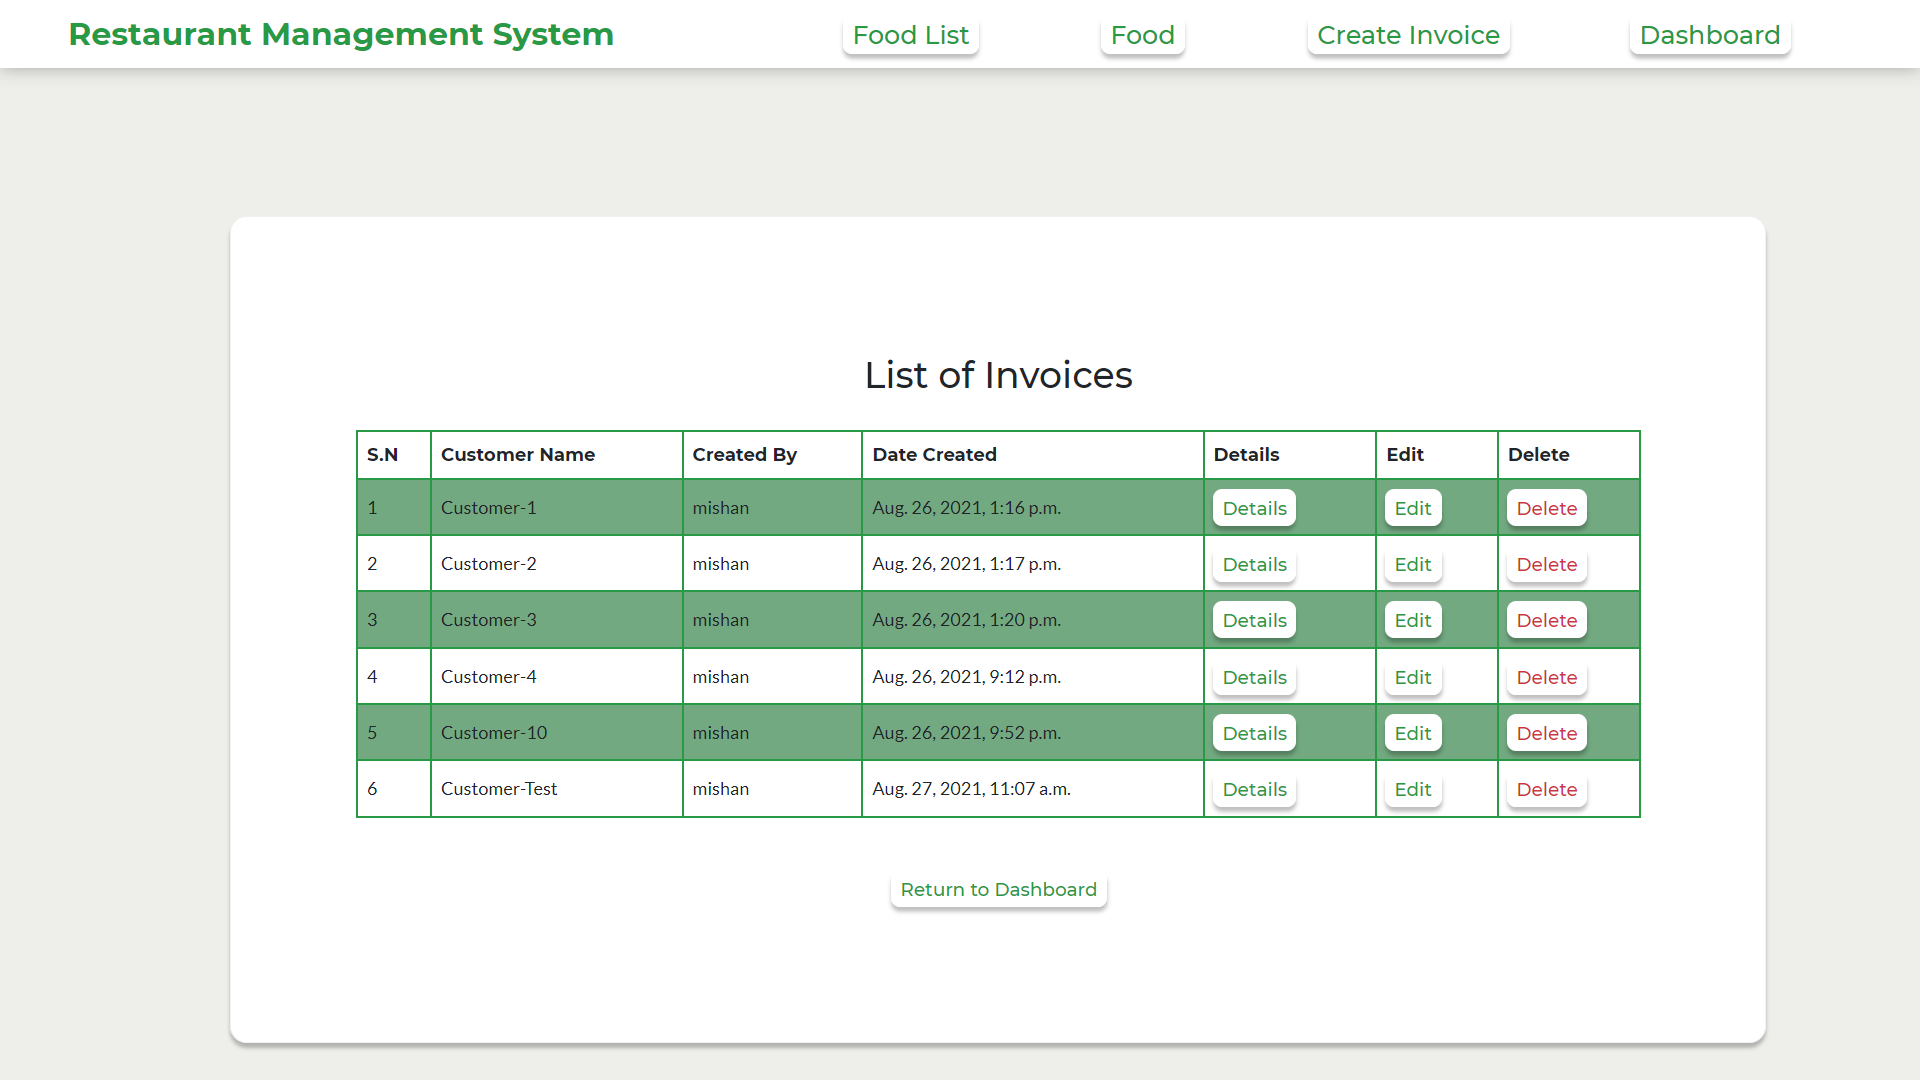
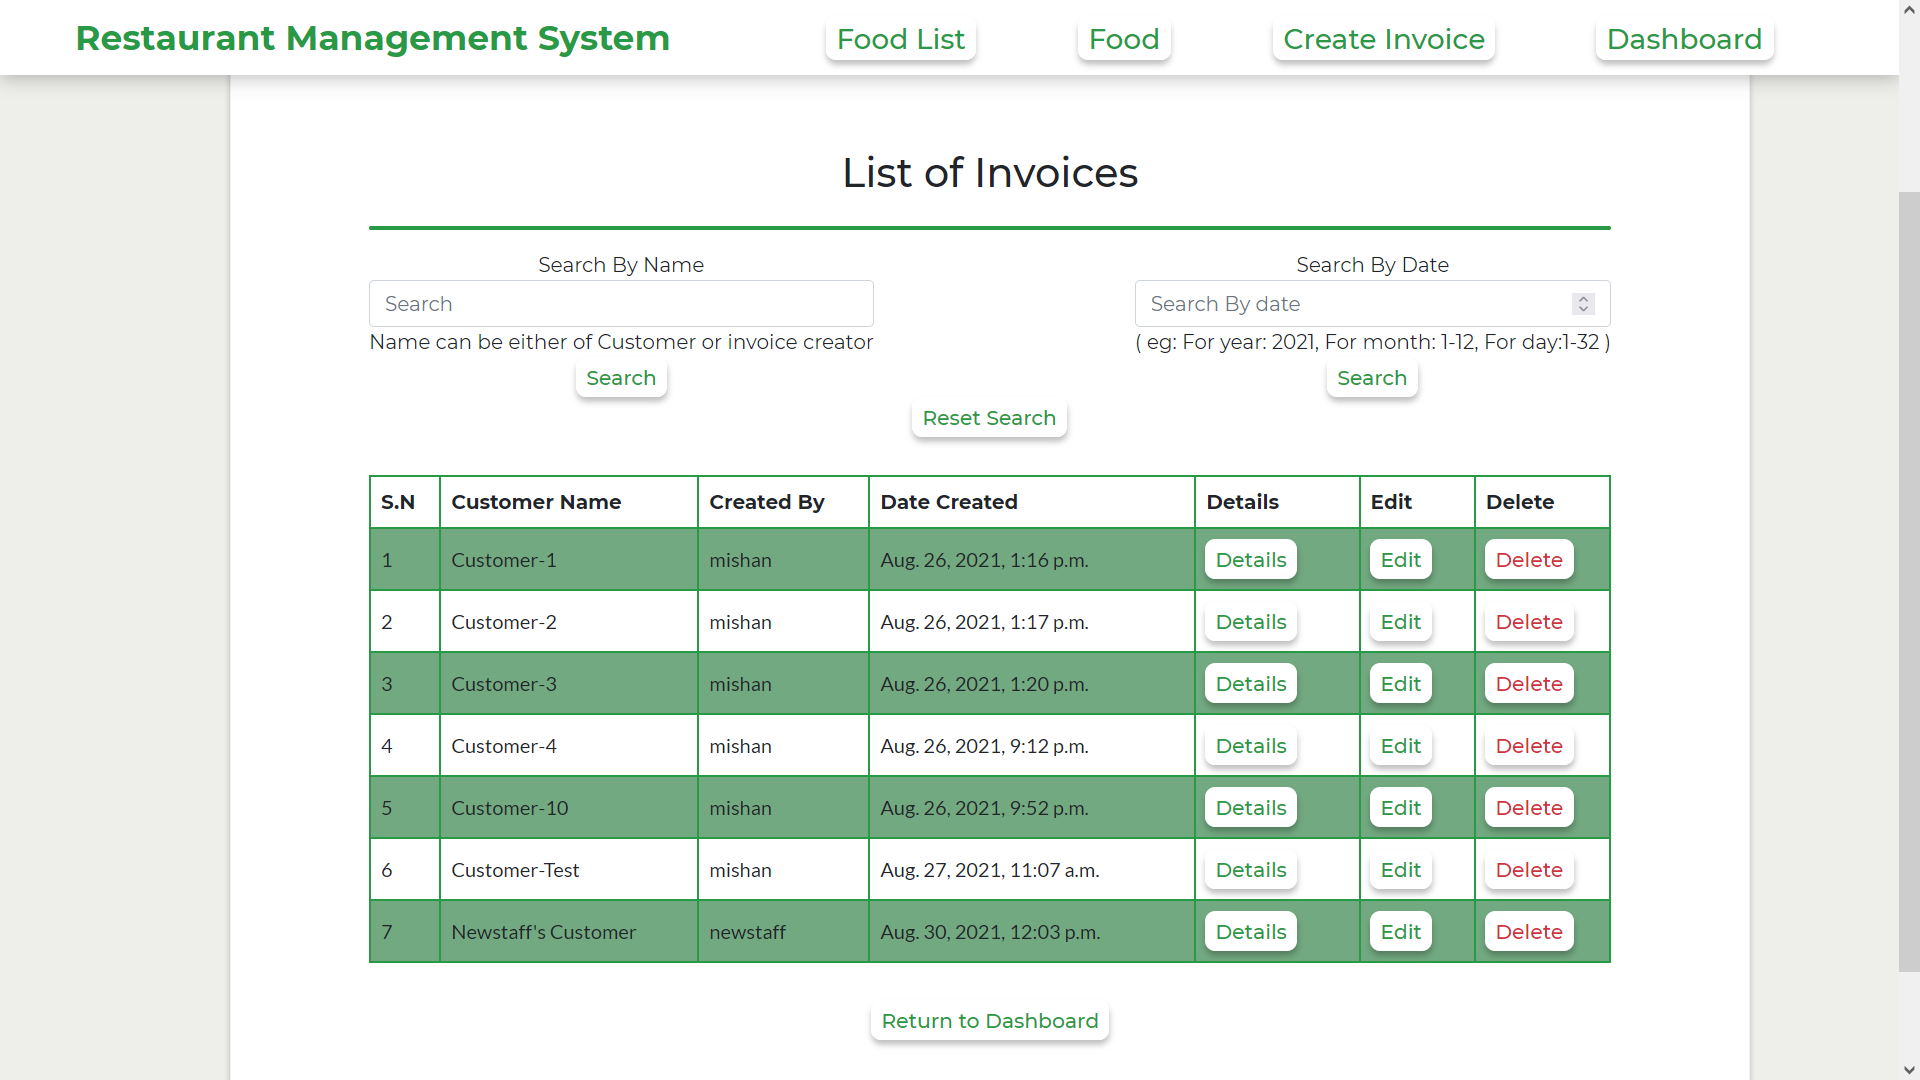
added search functionality in food sales

diff --git a/rms_app/templates/rms_app/sales.html b/rms_app/templates/rms_app/sales.html
@@ -3,60 +3,81 @@
 {% load static %}
 {% load crispy_forms_tags %}
 <div class="content-section-sales">
-    {% if invoice_obj %}
-    <div class="table">
-        <h2>List of Invoices</h2>
-        <table>
-            <tr style="font-family: Montserrat">
-              <th>S.N</th>
-              <th>Customer Name</th>
-              <th>Created By </th>
-              <th> Date Created  </th>
-              <th> Details  </th>
-              {% if request.user.is_superuser %}
-              <th>
-                Edit
-              </th>
-              {% endif %}
-              {% if request.user.is_superuser %}
-              <th>
-                Delete
-              </th>
-              {% endif %}
-
-            </tr>
-            {% for itr in invoice_obj  %}
-            <tr>
-                <td class="SN">{{ itr.invoice_number}}</td>
-                <td>{{ itr.customer_name}}</td>
-                <td>{{ itr.created_by}}</td>
-                <td>{{ itr.date_created}}&emsp;
-                </td>
-                <td><a  href="{% url 'invoice_details' itr.invoice_number %}">Details</a>&emsp;
-                </td>
-                {% if request.user.is_superuser %}
-                <td >
-                    <a href="{% url 'add_items_on_invoice' itr.invoice_number %} "> Edit</a>&ensp;
-                </td>
-                {% endif %}
-                {% if request.user.is_superuser %}
-                <td>
-                    <a style="color: #d0333c;" href="{% url 'invoice_confirm_delete' itr.invoice_number %} "> Delete</a>
-                </td>
-                {% endif %}
-            </tr>
-            {% endfor %}
-        </table>
+    <h2>List of Invoices</h2>
+    <hr>
+    <div id="horizontalbuttons">
+        <form action="/dashboard/sales" method="get">
+            <div class="col-xs-2">
+                <label for="by_name">Search By Name</label>
+                <input class="form-control" type= "text" id = " by_name" name="q" placeholder="Search" required>
+                <span class="help-block"> Name can be either of Customer or invoice creator</span>
+                <br>
+                <button type="submit" >Search</button>
+            </div>
+        </form>
+        <form action="/dashboard/sales" method="get">
+            <div class="col-xs-2">
+                <label for="by_date">Search By Date </label>
+                <input class="form-control" type="number" name="d" placeholder="Search By date"  id = "by_date" required>
+                <span class="help-block">( eg: For year: 2021, For month: 1-12, For day:1-32 )</span>
+                <br>
+                <button type="submit" >Search</button>
+            </div>
+        </form>
     </div>
     <div>
-    <a  href="{% url 'dashboard' %}"> Return to Dashboard</a>
+        <a  href="{% url 'sales' %}"> Reset Search</a>
+    </div>
+    {% if invoice_obj %}
+    <table>
+        <tr style="font-family: Montserrat">
+            <th>S.N</th>
+            <th>Customer Name</th>
+            <th>Created By </th>
+            <th> Date Created  </th>
+            <th> Details  </th>
+            {% if request.user.is_superuser %}
+            <th>
+                Edit
+            </th>
+            {% endif %}
+            {% if request.user.is_superuser %}
+            <th>
+                Delete
+            </th>
+            {% endif %}
+        </tr>
+        {% for itr in invoice_obj  %}
+        <tr>
+            <td class="SN">{{ itr.invoice_number}}</td>
+            <td>{{ itr.customer_name}}</td>
+            <td>{{ itr.created_by}}</td>
+            <td>{{ itr.date_created}}&emsp;
+            </td>
+            <td><a  href="{% url 'invoice_details' itr.invoice_number %}">Details</a>&emsp;
+            </td>
+            {% if request.user.is_superuser %}
+            <td >
+                <a href="{% url 'add_items_on_invoice' itr.invoice_number %} "> Edit</a>&ensp;
+            </td>
+            {% endif %}
+            {% if request.user.is_superuser %}
+            <td>
+                <a style="color: #d0333c;" href="{% url 'invoice_confirm_delete' itr.invoice_number %} "> Delete</a>
+            </td>
+            {% endif %}
+        </tr>
+        {% endfor %}
+    </table>
+    <div>
+        <a  href="{% url 'dashboard' %}"> Return to Dashboard</a>
     </div>
     {% else %}
-     <h2>Opps! No invoices in Database.😫</h2>
-     <div>
-     <hr>
-     <a  href="{% url 'dashboard' %}"> Return to Dashboard</a>
-     </div>
+    <hr>
+    <h2>Opps! No such invoices in Database.😫</h2>
+    <div>
+        <a  href="{% url 'dashboard' %}"> Return to Dashboard</a>
+    </div>
     {% endif %}
 </div>
 

diff --git a/rms_app/views.py b/rms_app/views.py
@@ -1,4 +1,5 @@
 from django.shortcuts import render
+from django.db.models import Q
 from django.views.generic.base import TemplateView
 from .models import Food ,Invoice
 from django.contrib import messages
@@ -144,6 +145,19 @@ class SalesView(LoginRequiredMixin, ListView):
     model = Invoice
     context_object_name = 'invoice_obj'
     template_name = "rms_app/sales.html"
+
+    def get_queryset(self):
+        query = self.request.GET.get('q',None)
+        query2 = self.request.GET.get('d',None)
+        if query is not None :
+            invoice_obj = self.model.objects.filter( Q(customer_name__icontains = query) | Q(created_by__username__icontains = query)
+            )
+        elif query2 is not None :
+            invoice_obj = self.model.objects.filter( Q(date_created__year = query2) | Q(date_created__month = query2) | Q(date_created__day = query2)
+            )
+        else:
+            invoice_obj = self.model.objects.all()
+        return invoice_obj
 
 
 
